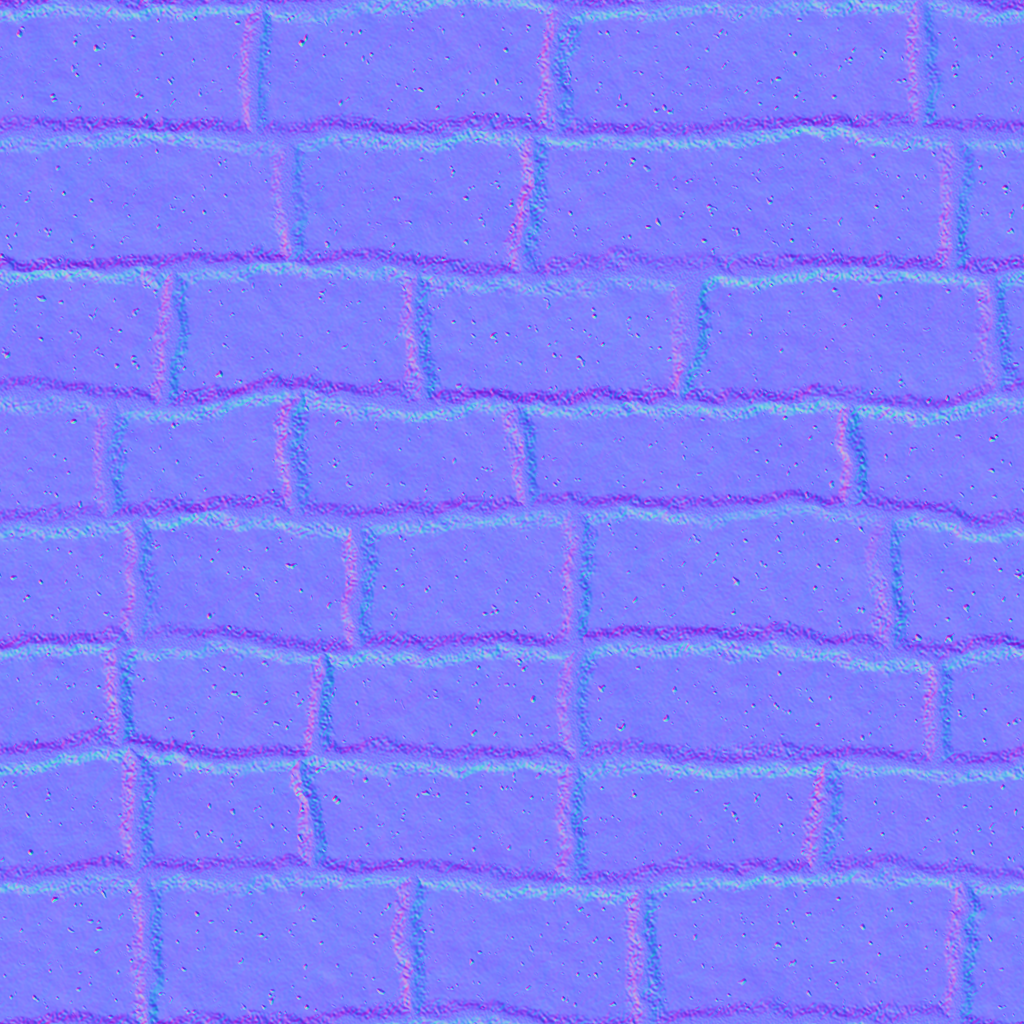
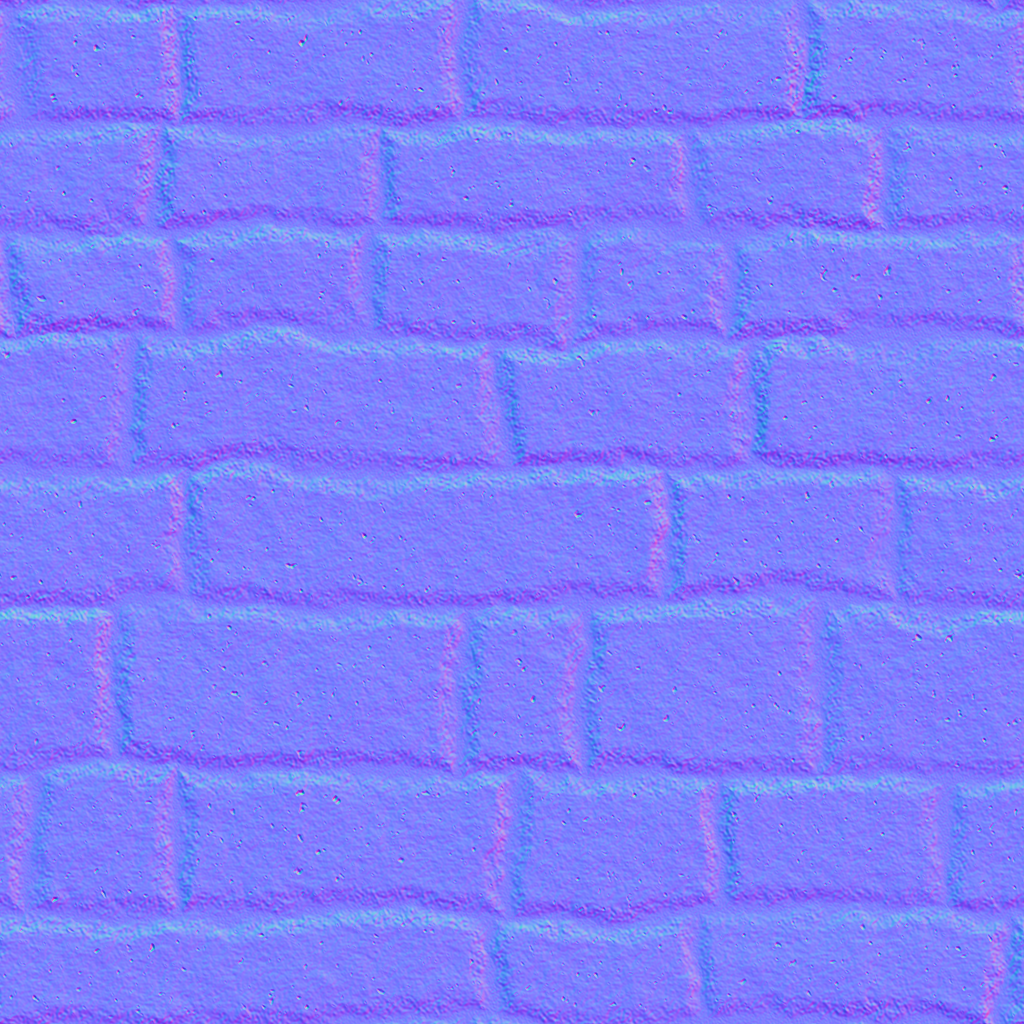
Gothic V4 : humidité du sol par la rugosité, murs à blocs plus variés et joints plus doux

Changed region(s): [[0.0, 0.0, 1.0, 1.0]]

diff --git a/tools/gen_gothic_textures.py b/tools/gen_gothic_textures.py
@@ -40,12 +40,24 @@ def smooth(x, a=0.0, b=1.0):
     return t * t * (3 - 2 * t)
 
 
-def course_edges(rng, total, lo, hi):
-    """Bords irréguliers sur un cercle de longueur total (somme exacte)."""
+def course_edges(rng, total, lo, hi, mix=None):
+    """Bords irréguliers sur un cercle de longueur total (somme exacte). mix = [(probabilité, mini, maxi), …] : tailles tirées dans plusieurs plages
+    (quelques blocs courts, quelques longs) au lieu d'une seule ; sinon uniforme entre lo et hi."""
     sizes = []
     t = 0.0
     while t < total:
-        s = rng.uniform(lo, hi)
+        if mix:
+            r = rng.uniform()
+            acc = 0.0
+            a, b = mix[-1][1], mix[-1][2]
+            for pr, mn, mx in mix:
+                acc += pr
+                if r < acc:
+                    a, b = mn, mx
+                    break
+            s = rng.uniform(a, b)
+        else:
+            s = rng.uniform(lo, hi)
         sizes.append(s)
         t += s
     sizes = np.array(sizes) * total / sum(sizes)
@@ -59,7 +71,7 @@ def masonry(n, rng, wx, wy):
     xx = (np.arange(n)[None, :] + wx) % n
     yy = np.broadcast_to(yy, (n, n)).astype(np.float32)
     xx = np.broadcast_to(xx, (n, n)).astype(np.float32)
-    cedges, csizes = course_edges(rng, n, 0.40 * ppu, 0.66 * ppu)
+    cedges, csizes = course_edges(rng, n, 0.40 * ppu, 0.66 * ppu, [(0.18, 0.30 * ppu, 0.40 * ppu), (0.62, 0.42 * ppu, 0.62 * ppu), (0.20, 0.66 * ppu, 0.92 * ppu)])
     dist = np.zeros((n, n), np.float32)
     bid = np.zeros((n, n), np.int32)
     bu = np.zeros((n, n), np.float32)
@@ -68,7 +80,7 @@ def masonry(n, rng, wx, wy):
     counter = 0
     for c in range(len(cedges)):
         y0, y1 = cedges[c], cedges[c] + csizes[c]
-        be, _ = course_edges(rng, n, 0.80 * ppu, 1.70 * ppu)
+        be, _ = course_edges(rng, n, 0.80 * ppu, 1.70 * ppu, [(0.22, 0.55 * ppu, 0.85 * ppu), (0.56, 0.90 * ppu, 1.50 * ppu), (0.22, 1.55 * ppu, 2.15 * ppu)])
         be = np.sort((be + rng.uniform(0, n)) % n)
         m = ci == c
         x = xx[m]
@@ -169,7 +181,7 @@ def build(part, seed):
     speck = fbm(n, 0.2, seed + 12, lo=150, hi=500)
     if part == "wall":
         dist, bid, u, v, cnt = masonry(n, rng, wx, wy)
-        joint_half, bevel, relief, tilt_k = 4.6, 30.0, 0.55, 0.10
+        joint_half, bevel, relief, tilt_k = 5.2, 40.0, 0.62, 0.11
         base, tone_sd, strength = np.array([0.238, 0.252, 0.272]), 0.16, 14.0
     elif part == "floor":
         dist, bid, u, v, cnt = voronoi(n, rng, 6, wx, wy)
@@ -186,11 +198,12 @@ def build(part, seed):
     dome = np.abs(per_block(rng, cnt, 0.5)) + 0.15
     rgh = per_block(rng, cnt, 0.05)
     t = tone[bid]
-    d = dist + mid * 2.8 + fine * 1.2          # bords ébréchés, non rectilignes
+    d = dist + mid * 2.8 + gaussian_filter(fine, 1.2, mode="wrap") * 1.6          # bords ébréchés, non rectilignes (sans escalier de pixels)
     s = smooth(d, joint_half, joint_half + bevel)
     edge_band = 1.0 - smooth(d, joint_half, joint_half + bevel * 0.35)
     joint = 1.0 - smooth(d, joint_half - 1.6, joint_half + 1.6)
-    surf = (0.60 * mid + 0.10 * fine + 0.02 * grain) * relief
+    chisel = fbm(n, 1.2, seed + 13, lo=60, hi=380, ax=3.0)      # coups de ciseau : micro-relief un peu étiré
+    surf = (0.60 * mid + 0.17 * fine + 0.05 * grain + 0.08 * chisel) * relief
     pits = np.clip(fine - 1.9, 0, None) * 0.22
     tilt = (tiltx[bid] * (u - 0.5) + tilty[bid] * (v - 0.5)) * tilt_k
     cracks = np.zeros_like(crackn)      # pas de fissures filiformes : elles se répètent en boucles peu crédibles
@@ -206,17 +219,24 @@ def build(part, seed):
     col = col * mott[..., None]
     col = col * (1.0 + 0.20 * edge_band * (s > 0.02))[..., None]
     col = col * (1.0 - 0.55 * cracks)[..., None]
-    jc = np.array([0.075, 0.085, 0.100]) * (1.0 + 0.30 * fine[..., None])
+    jc = np.array([0.118, 0.128, 0.146]) * (1.0 + 0.30 * fine[..., None])      # fond de joint : gris-bleu sombre, jamais noir
     col = col * (1 - joint[..., None]) + jc * joint[..., None]
     ao = np.clip(1.0 - 3.0 * np.clip(gaussian_filter(h, 10, mode="wrap") - h, 0, None), 0.25, 1.0)
     ao *= 1.0 - 0.55 * joint
+    ao *= 1.0 - 0.28 * np.clip(gaussian_filter(joint, 7, mode="wrap") * 2.2, 0, 1)      # ombre douce au pied du joint : de la profondeur sans trait noir
     rough = 0.80 + rgh[bid] + 0.07 * fine + 0.05 * grain
     rough = rough * (1 - joint) + 0.97 * joint + 0.06 * edge_band
     if part == "floor":
-        wet = smooth(fbm(n, 1.7, seed + 11, lo=2, hi=16), 0.55, 1.15)
-        col = col * (1 - 0.30 * wet)[..., None]
-        rough = rough - 0.34 * wet
-        h = h - 0.02 * wet
+        # humidité : surtout dans la rugosité et la réflexion, très peu dans la couleur. Large (la tuile couvre une case : pas de petites taches
+        # qui se répéteraient), plus marquée au creux des joints et variable d'une dalle à l'autre.
+        broad = smooth(fbm(n, 1.9, seed + 11, lo=1, hi=5), -0.3, 1.5)
+        pool = smooth(fbm(n, 1.4, seed + 14, lo=3, hi=22), -0.2, 1.4)
+        slab = np.clip(per_block(rng, cnt, 0.45) + 0.45, 0.0, 1.0)[bid]
+        along = np.clip(gaussian_filter(joint, 14, mode="wrap") * 3.0, 0.0, 1.0)
+        wet = np.clip((0.15 + 0.85 * broad) * (0.35 + 0.65 * pool) * (0.4 + 0.6 * slab) + 0.35 * along * broad, 0.0, 1.0)
+        col = col * (1 - 0.07 * wet)[..., None]
+        rough = rough - 0.30 * wet + 0.05 * fine * wet
+        h = h - 0.008 * wet
     if part == "ceil":
         col = col * (1.0 - 0.18 * np.clip(streak, 0, None))[..., None]
     rough = np.clip(rough, 0.35, 1.0)

diff --git a/assets/themes/gothic_LISEZMOI.md b/assets/themes/gothic_LISEZMOI.md
@@ -1,4 +1,4 @@
-# Thème « gothic » : textures (V3)
+# Thème « gothic » : textures (V3, V4)
 
 Les 18 fichiers de `assets/themes/gothic_hd/` (2048 × 2048) et `assets/themes/gothic_lite/` (1024 × 1024) sont des textures **procédurales**,
 produites par `python3 tools/gen_gothic_textures.py` (reproductible : graines fixes). Elles remplacent le premier pack, qui avait une grille de briques
@@ -14,8 +14,8 @@ Les UV vont de 0 à 1 par case : le raccord se fait aux bords de case, tout le b
 
 | Pièce | Contenu |
 |---|---|
-| `wall` | grosses pierres irrégulières (assises de 0,4 à 0,66 u, blocs de 0,8 à 1,7 u, décalés), joints fins (≈ 2 cm) creusés et ébréchés, teinte propre à chaque pierre |
-| `floor` | dalles irrégulières (Voronoï, 6 × 6 par tuile), anthracite plus foncé que les murs, taches d'humidité (rugosité 0,4 au lieu de 0,8) |
+| `wall` | grosses pierres irrégulières (V4 : assises de 0,30 à 0,92 u, blocs de 0,55 à 2,15 u, décalés), joints creusés et ébréchés avec ombre douce à leur pied (fond gris-bleu, pas noir), micro-relief au ciseau, teinte propre à chaque pierre |
+| `floor` | dalles irrégulières (Voronoï, 6 × 6 par tuile), anthracite plus foncé que les murs ; V4 : l'humidité est dans la rugosité (≈ 0,5 au lieu de 0,8 aux endroits humides, large et irrégulière, plus marquée le long des joints) et à peine dans la couleur (−7 %) |
 | `ceil` | grandes pierres taillées grossièrement (4 × 4 par tuile), plus sombres, relief deux fois plus marqué, distinctes des murs |
 
 Formats : albédo JPG (sRGB, sans lumière peinte), normale PNG OpenGL (Y+), ORM JPG (R = occlusion, G = rugosité, B = métal = 0).
